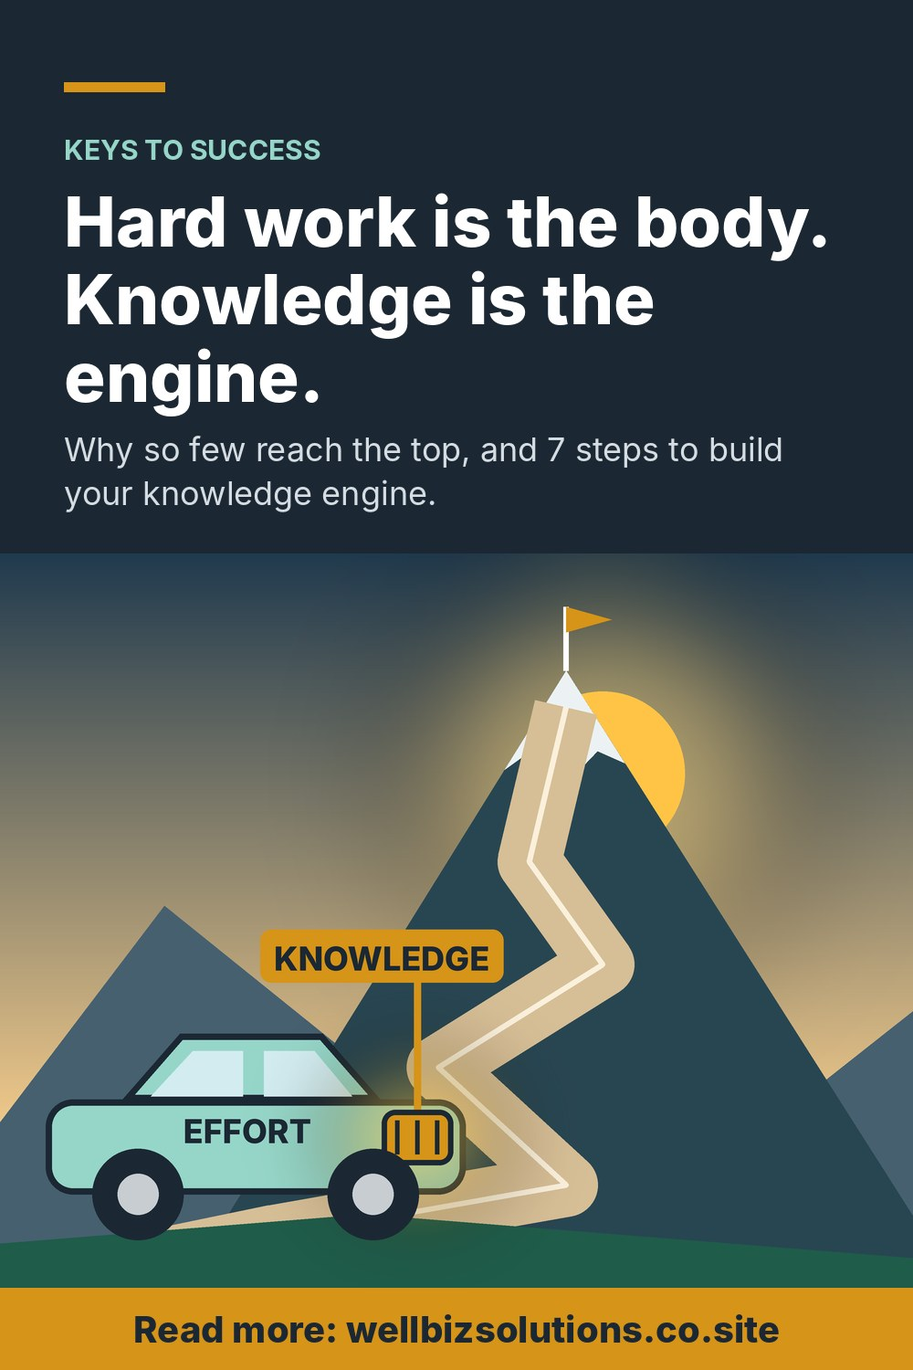
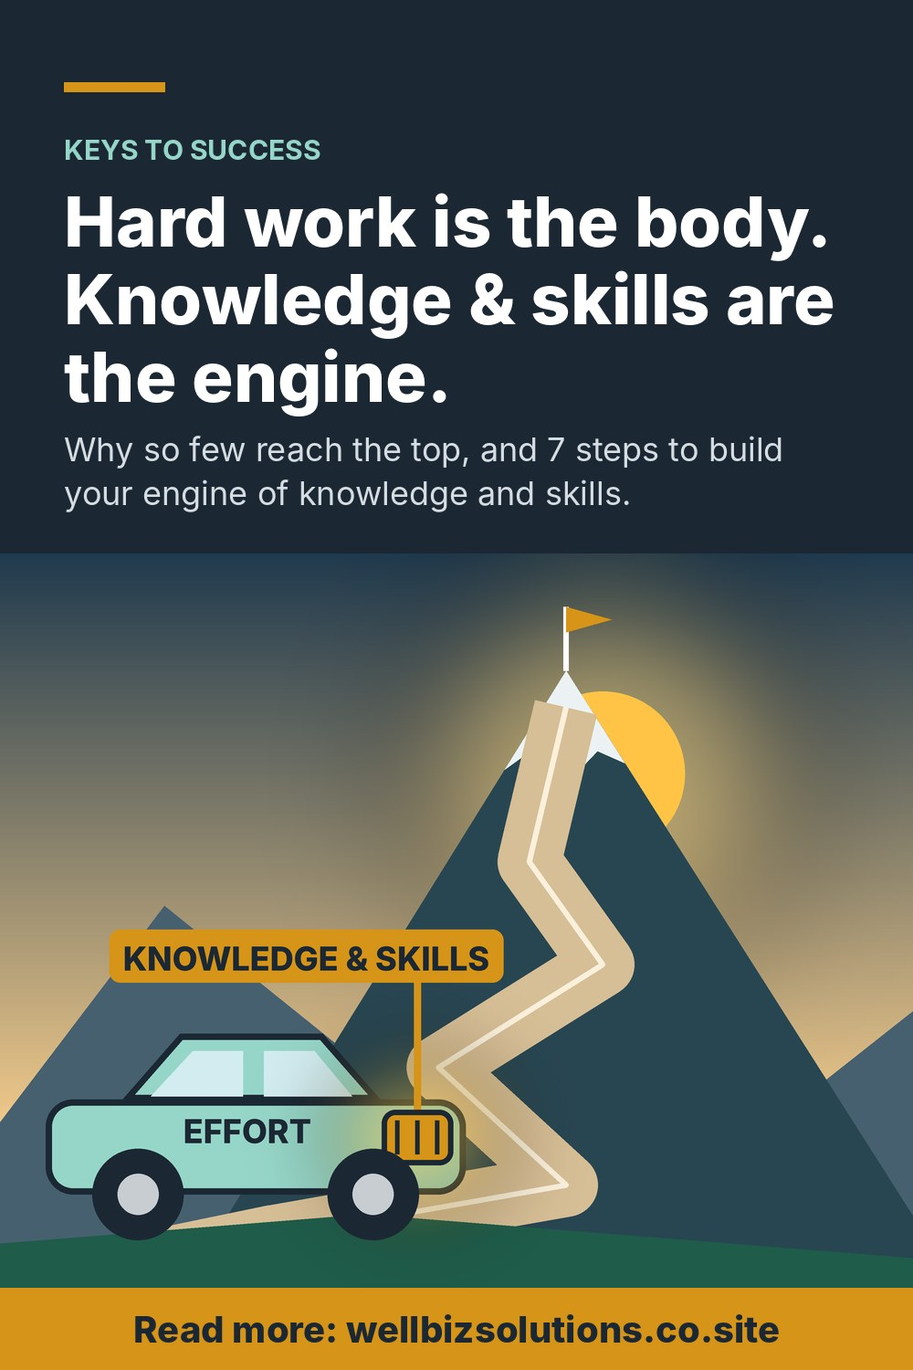
EN article: render maarifa as 'knowledge and skills'
Claude-Session: https://claude.ai/code/session_01Uhe7vGGy8cQE9aatv9GkGs

diff --git a/blog-knowledge-and-effort-keys-to-success.html b/blog-knowledge-and-effort-keys-to-success.html
@@ -3,9 +3,9 @@
 <head>
 <meta charset="UTF-8">
 <meta name="viewport" content="width=device-width, initial-scale=1.0">
-<title>Knowledge Is the Key to Success: Effort Alone Won&#x27;t Do</title>
-<meta name="description" content="Success is not just luck. Hard work is the body of the car, knowledge is the engine. Why so few succeed, and 7 steps to build your knowledge engine.">
-<meta name="keywords" content="knowledge is the key to success, knowledge and hard work, keys to success in life, lifelong learning, how to succeed in life, work smart not just hard, personal growth, success mindset">
+<title>Knowledge and Skills: The Real Engine of Success</title>
+<meta name="description" content="Success is not just luck. Effort is the body of the car; knowledge and skills are the engine. Why so few succeed, and 7 steps to build your engine.">
+<meta name="keywords" content="knowledge and skills, knowledge and skills for success, knowledge is the key to success, knowledge and hard work, keys to success in life, lifelong learning, how to succeed in life, work smart not just hard, personal growth, success mindset">
 <meta name="author" content="Juma Killaghai">
 <meta name="robots" content="index, follow, max-image-preview:large">
 <link rel="icon" href="/assets/images/logo.png">
@@ -18,22 +18,22 @@
 <meta property="og:site_name" content="Wellbiz Solutions">
 <meta property="og:locale" content="en_US">
 <meta property="og:locale:alternate" content="sw_TZ">
-<meta property="og:title" content="Knowledge Is the Key to Success: Effort Alone Won&#x27;t Do">
-<meta property="og:description" content="Many people work hard, few work with knowledge. That is why so few reach the top. Knowledge is the engine of success; effort is the body of the car.">
+<meta property="og:title" content="Knowledge and Skills: The Real Engine of Success">
+<meta property="og:description" content="Many people work hard, few work with knowledge and skills. That is why so few reach the top. Effort is the body of the car; know-how is the engine.">
 <meta property="og:url" content="https://www.wellbizsolutions.co.site/blog-knowledge-and-effort-keys-to-success.html">
 <meta property="og:image" content="https://images.unsplash.com/photo-1612477954469-c6a60de89802?w=1200&amp;h=630&amp;fit=crop&amp;auto=format&amp;q=80">
 <meta property="og:image:width" content="1200">
 <meta property="og:image:height" content="630">
-<meta property="og:image:alt" content="Knowledge is the key to success: a young woman reading a book to grow her knowledge">
+<meta property="og:image:alt" content="Knowledge and skills are the key to success: a young woman reading a book to grow her knowledge">
 <meta property="article:published_time" content="2026-11-06">
 <meta property="article:author" content="Juma Killaghai">
 <meta property="article:section" content="Personal Growth">
 <meta name="twitter:card" content="summary_large_image">
-<meta name="twitter:title" content="Knowledge Is the Key to Success: Effort Alone Won&#x27;t Do">
-<meta name="twitter:description" content="Many people work hard, few work with knowledge. That is why so few reach the top. Knowledge is the engine of success; effort is the body of the car.">
+<meta name="twitter:title" content="Knowledge and Skills: The Real Engine of Success">
+<meta name="twitter:description" content="Many people work hard, few work with knowledge and skills. That is why so few reach the top. Effort is the body of the car; know-how is the engine.">
 <meta name="twitter:image" content="https://images.unsplash.com/photo-1612477954469-c6a60de89802?w=1200&amp;h=630&amp;fit=crop&amp;auto=format&amp;q=80">
 <script type="application/ld+json">
-{"@context": "https://schema.org", "@graph": [{"@type": "BlogPosting", "headline": "Everyone Can Reach the Peak of Success: Knowledge Is the Engine, Effort Is the Body of the Car", "description": "Success is not just luck. Hard work is the body of the car, knowledge is the engine. Why so few succeed, and 7 steps to build your knowledge engine.", "image": {"@type": "ImageObject", "url": "https://images.unsplash.com/photo-1612477954469-c6a60de89802?w=1200&h=630&fit=crop&auto=format&q=80", "width": 1200, "height": 630}, "datePublished": "2026-11-06", "dateModified": "2026-11-06", "inLanguage": "en", "articleSection": "Personal Growth", "keywords": "knowledge is the key to success, knowledge and hard work, keys to success in life, lifelong learning, how to succeed in life, work smart not just hard, personal growth, success mindset", "author": {"@type": "Person", "name": "Juma Killaghai", "url": "https://www.wellbizsolutions.co.site/about.html"}, "publisher": {"@type": "Organization", "name": "Wellbiz Solutions", "logo": {"@type": "ImageObject", "url": "https://www.wellbizsolutions.co.site/assets/images/logo.png"}}, "mainEntityOfPage": "https://www.wellbizsolutions.co.site/blog-knowledge-and-effort-keys-to-success.html", "translationOfWork": {"@id": "https://www.wellbizsolutions.co.site/blog-kila-mtu-anaweza-kufikia-kilele-cha-mafanikio-sw.html"}}, {"@type": "BreadcrumbList", "itemListElement": [{"@type": "ListItem", "position": 1, "name": "Home", "item": "https://www.wellbizsolutions.co.site/"}, {"@type": "ListItem", "position": 2, "name": "Blog", "item": "https://www.wellbizsolutions.co.site/blog.html"}, {"@type": "ListItem", "position": 3, "name": "Knowledge Is the Key to Success: Effort Alone Won't Do", "item": "https://www.wellbizsolutions.co.site/blog-knowledge-and-effort-keys-to-success.html"}]}, {"@type": "FAQPage", "mainEntity": [{"@type": "Question", "name": "Is success a matter of luck?", "acceptedAnswer": {"@type": "Answer", "text": "For a few people, luck plays a part. For the great majority, success comes from principles that work the same way for everyone, and the most important of them is knowledge combined with effort. Hard work alone is common; hard work guided by knowledge is rare, and that is why few people reach the top."}}, {"@type": "Question", "name": "What matters more, knowledge or hard work?", "acceptedAnswer": {"@type": "Answer", "text": "You need both. Effort is the body of the car and knowledge is the engine. A beautiful body with a broken engine goes nowhere, and a weak engine makes the journey slow. Knowledge tells you where to put your effort so that it pays."}}, {"@type": "Question", "name": "Is it true that knowledge doubles every 18 months?", "acceptedAnswer": {"@type": "Answer", "text": "Treat that figure as an illustration, not a measurement. It comes from Buckminster Fuller's \"knowledge doubling curve\", an estimate rather than a scientific count. Studies of scientific publications find output grows about 4% a year, doubling roughly every 17 years. The lesson still holds: the World Economic Forum expects 39% of workers' core skills to change by 2030."}}, {"@type": "Question", "name": "How can I build my knowledge if I can't afford courses?", "acceptedAnswer": {"@type": "Answer", "text": "Start with 30 minutes a day: read books and articles in your field, listen to podcasts or radio programmes, learn from people who are already succeeding, and join free trainings and seminars. Then apply one new idea each week. Knowledge you use is worth far more than knowledge you only collect."}}]}]}
+{"@context": "https://schema.org", "@graph": [{"@type": "BlogPosting", "headline": "Everyone Can Reach the Peak of Success: Knowledge and Skills Are the Engine, Effort Is the Body of the Car", "description": "Success is not just luck. Effort is the body of the car; knowledge and skills are the engine. Why so few succeed, and 7 steps to build your engine.", "image": {"@type": "ImageObject", "url": "https://images.unsplash.com/photo-1612477954469-c6a60de89802?w=1200&h=630&fit=crop&auto=format&q=80", "width": 1200, "height": 630}, "datePublished": "2026-11-06", "dateModified": "2026-11-06", "inLanguage": "en", "articleSection": "Personal Growth", "keywords": "knowledge and skills, knowledge and skills for success, knowledge is the key to success, knowledge and hard work, keys to success in life, lifelong learning, how to succeed in life, work smart not just hard, personal growth, success mindset", "author": {"@type": "Person", "name": "Juma Killaghai", "url": "https://www.wellbizsolutions.co.site/about.html"}, "publisher": {"@type": "Organization", "name": "Wellbiz Solutions", "logo": {"@type": "ImageObject", "url": "https://www.wellbizsolutions.co.site/assets/images/logo.png"}}, "mainEntityOfPage": "https://www.wellbizsolutions.co.site/blog-knowledge-and-effort-keys-to-success.html", "translationOfWork": {"@id": "https://www.wellbizsolutions.co.site/blog-kila-mtu-anaweza-kufikia-kilele-cha-mafanikio-sw.html"}}, {"@type": "BreadcrumbList", "itemListElement": [{"@type": "ListItem", "position": 1, "name": "Home", "item": "https://www.wellbizsolutions.co.site/"}, {"@type": "ListItem", "position": 2, "name": "Blog", "item": "https://www.wellbizsolutions.co.site/blog.html"}, {"@type": "ListItem", "position": 3, "name": "Knowledge and Skills: The Real Engine of Success", "item": "https://www.wellbizsolutions.co.site/blog-knowledge-and-effort-keys-to-success.html"}]}, {"@type": "FAQPage", "mainEntity": [{"@type": "Question", "name": "Is success a matter of luck?", "acceptedAnswer": {"@type": "Answer", "text": "For a few people, luck plays a part. For the great majority, success comes from principles that work the same way for everyone, and the most important of them is knowledge and skills combined with effort. Hard work alone is common; hard work guided by knowledge and skills is rare, and that is why few people reach the top."}}, {"@type": "Question", "name": "What matters more, knowledge and skills or hard work?", "acceptedAnswer": {"@type": "Answer", "text": "You need both. Effort is the body of the car; knowledge and skills are the engine. A beautiful body with a broken engine goes nowhere, and a weak engine makes the journey slow. Knowledge and skills tell you where to put your effort, and how, so that it pays."}}, {"@type": "Question", "name": "Is it true that knowledge doubles every 18 months?", "acceptedAnswer": {"@type": "Answer", "text": "Treat that figure as an illustration, not a measurement. It comes from Buckminster Fuller's \"knowledge doubling curve\", an estimate rather than a scientific count. Studies of scientific publications find output grows about 4% a year, doubling roughly every 17 years. The lesson still holds: the World Economic Forum expects 39% of workers' core skills to change by 2030."}}, {"@type": "Question", "name": "How can I build my knowledge and skills if I can't afford courses?", "acceptedAnswer": {"@type": "Answer", "text": "Start with 30 minutes a day: read books and articles in your field, listen to podcasts or radio programmes, learn from people who are already succeeding, and join free trainings and seminars. Then practise one new idea or skill each week. Knowledge you use is worth far more than knowledge you only collect."}}]}]}
 </script>
   <style>
     .toolkit{background:#fff7ef;border:1px solid #f0d9c4;border-radius:12px;padding:22px 24px;margin:36px 0;}
@@ -57,8 +57,8 @@
     <section class="page-hero on-ink">
       <div class="wrap">
         <div class="eyebrow">Personal Growth</div>
-        <h1 style="font-size:clamp(28px,4vw,44px);">Everyone Can Reach the Peak of Success: Knowledge Is the Engine, Effort Is the Body of the Car</h1>
-        <p class="lede">Success is not a matter of luck for most people. It comes from working with knowledge and effort. Effort without knowledge is a car without an engine.</p>
+        <h1 style="font-size:clamp(28px,4vw,44px);">Everyone Can Reach the Peak of Success: Knowledge and Skills Are the Engine, Effort Is the Body of the Car</h1>
+        <p class="lede">Success is not a matter of luck for most people. It comes from working with knowledge, skills and effort. Effort without knowledge and skills is a car without an engine.</p>
       </div>
     </section>
 
@@ -70,29 +70,29 @@
         </p>
 
         <figure style="margin:0 0 32px;">
-          <img src="https://images.unsplash.com/photo-1612477954469-c6a60de89802?w=1200&h=800&fit=crop&auto=format&q=80" width="1200" height="800" alt="Knowledge is the key to success: a young woman reading a book to grow her knowledge" style="border-radius:12px;width:100%;height:auto;display:block;">
+          <img src="https://images.unsplash.com/photo-1612477954469-c6a60de89802?w=1200&h=800&fit=crop&auto=format&q=80" width="1200" height="800" alt="Knowledge and skills are the key to success: a young woman reading a book to grow her knowledge" style="border-radius:12px;width:100%;height:auto;display:block;">
           <figcaption style="font-size:14px;color:#667;margin-top:8px;text-align:center;">Effort gets you moving; knowledge decides how far you go. (Photo: Alexandra Fuller / Unsplash)</figcaption>
         </figure>
 
-        <p>Some people believe that success in life is a matter of luck. Others believe that Almighty God alone decides who will succeed and who will not. <strong>For most of us, both beliefs are wrong.</strong> It is true that a few people succeed by luck, but real success for the great majority comes from working with <strong>knowledge</strong> and effort. And that is the key point: <strong>knowledge is the key to success</strong>, and effort is what carries it.</p>
-        <p>Many people work very hard. Far fewer work with knowledge. That simple fact explains why those who reach the top are few, even though those who work hard are many.</p>
+        <p>Some people believe that success in life is a matter of luck. Others believe that Almighty God alone decides who will succeed and who will not. <strong>For most of us, both beliefs are wrong.</strong> It is true that a few people succeed by luck, but real success for the great majority comes from working with <strong>knowledge and skills</strong> and effort. And that is the key point: <strong>knowledge and skills are the key to success</strong>, and effort is what carries them. In Kiswahili we call this <em>maarifa</em>: not only what you know, but also what you know how to do.</p>
+        <p>Many people work very hard. Far fewer work with knowledge and skills. That simple fact explains why those who reach the top are few, even though those who work hard are many.</p>
 
         <h2>Luck and Destiny: Only a Few Cases</h2>
         <p>There are a few people to whom Almighty God, in His authority, has chosen to give success, no doubt as a test for them. Even if they said "we do not want this success", it would still come, because the decision about them has already been made by the One no one can overrule. I know some of these people, and you probably know some too. Their great test is that they carry a heavy responsibility to give part of their success back to society.</p>
         <p>In the same way, there are a few people to whom God, in His authority, has chosen not to give, also as a test. Even if the whole world came together to rescue them, it would be in vain. I know people like this too, and perhaps you do as well. Their great test is patience: to remain good, honest citizens while they face hardship of every kind.</p>
-        <p>Apart from these few cases, the lucky and those whom God may have chosen as a lesson for others, <strong>everyone else succeeds or fails according to principles that work the same way for everyone.</strong> And the most fundamental of these principles is KNOWLEDGE.</p>
+        <p>Apart from these few cases, the lucky and those whom God may have chosen as a lesson for others, <strong>everyone else succeeds or fails according to principles that work the same way for everyone.</strong> And the most fundamental of these principles is KNOWLEDGE AND SKILLS.</p>
 
-        <h2>Knowledge Is the Key to Success: the Engine That Drives Your Car</h2>
-        <p>Picture your success as a car made of two parts: <strong>EFFORT and KNOWLEDGE</strong>. The body of the car is effort; the engine is knowledge.</p>
+        <h2>Knowledge and Skills Are the Key to Success: the Engine That Drives Your Car</h2>
+        <p>Picture your success as a car made of two parts: <strong>EFFORT and KNOWLEDGE &amp; SKILLS</strong>. The body of the car is effort; the engine is your knowledge and skills.</p>
         <ul>
           <li>No matter how beautiful the body, <strong>if the engine is broken, the car goes nowhere.</strong></li>
           <li>No matter how beautiful the body, <strong>if the engine is weak, the car crawls along</strong>, and it may never reach your destination.</li>
         </ul>
         <p>So ask yourself honestly:</p>
         <ul>
-          <li>How much knowledge do you have to <strong>recognise opportunities</strong> when they appear?</li>
-          <li>How much knowledge do you have to <strong>turn those opportunities into a bridge</strong> to your success?</li>
-          <li>Once you succeed, how much knowledge do you have to <strong>protect that success</strong> so it does not slip away?</li>
+          <li>How much knowledge and skill do you have to <strong>recognise opportunities</strong> when they appear?</li>
+          <li>How much knowledge and skill do you have to <strong>turn those opportunities into a bridge</strong> to your success?</li>
+          <li>Once you succeed, how much knowledge and skill do you have to <strong>protect that success</strong> so it does not slip away?</li>
         </ul>
 
         <figure style="margin:28px 0;">
@@ -100,14 +100,14 @@
           <figcaption style="font-size:14px;color:#667;margin-top:8px;text-align:center;">However beautiful the body, a car with a weak engine will not get far. (Photo: Kay Asante / Unsplash)</figcaption>
         </figure>
 
-        <h2>The World Is Changing Fast: Is Your Knowledge Keeping Up?</h2>
+        <h2>The World Is Changing Fast: Are Your Knowledge and Skills Keeping Up?</h2>
         <p>You may have heard that the amount of new knowledge in the world doubles roughly every 18 months. That figure is best treated as an illustration rather than a measurement: it comes from the inventor Buckminster Fuller's "knowledge doubling curve", an estimate, not a scientific count. Careful studies of scientific publications find that global output grows by about 4% a year, which means it doubles roughly every 17 years.</p>
         <div class="stat"><p style="margin:0;"><strong>What the evidence says:</strong> the World Economic Forum's <em>Future of Jobs Report 2025</em> found that employers expect <strong>39% of workers' core skills to change by 2030</strong>. Whatever the exact speed, the skills that earn money today will not be enough tomorrow.</p></div>
-        <p>The message is the same: we live in a world that changes at an astonishing pace. Those who want to succeed, or to keep the success they already have, must be ready to change at the same pace as the world. In short, your knowledge has to keep growing all the time.</p>
+        <p>The message is the same: we live in a world that changes at an astonishing pace. Those who want to succeed, or to keep the success they already have, must be ready to change at the same pace as the world. In short, your knowledge and skills have to keep growing all the time.</p>
 
-        <h2>Build Your Knowledge Engine: 7 Practical Steps</h2>
+        <h2>Build Your Engine of Knowledge and Skills: 7 Practical Steps</h2>
         <ol>
-          <li><strong>Know where you are going.</strong> Write down your goal for the next 12 months and list the three things you need to know to reach it.</li>
+          <li><strong>Know where you are going.</strong> Write down your goal for the next 12 months and list the three things you need to know, or be able to do, to reach it.</li>
           <li><strong>Give learning 30 minutes a day.</strong> Half an hour a day is more than 180 hours a year, the equivalent of a short course.</li>
           <li><strong>Read one book a month.</strong> Choose books in your field: sales, money management, your trade. If reading is hard, listen to audio programmes or podcasts.</li>
           <li><strong>Learn from people.</strong> Find a mentor, join a group of people who are ahead of you, and ask good questions. One conversation can save you years of mistakes.</li>
@@ -128,10 +128,10 @@
           </tbody>
         </table></div>
 
-        <div class="note"><p style="margin:0;"><strong>⚠ Knowledge is not only certificates.</strong> School is valuable, but much of the knowledge that builds success is practical: how money works, how to sell, how to serve customers, how to plan. Anyone can learn these, whatever their level of formal education.</p></div>
+        <div class="note"><p style="margin:0;"><strong>⚠ Knowledge and skills are not only certificates.</strong> School is valuable, but much of the knowledge that builds success is practical: how money works, how to sell, how to serve customers, how to plan. Anyone can learn these, whatever their level of formal education.</p></div>
 
         <div class="toolkit">
-          <h2>📘 Grow Your Knowledge Today: Practical Wellbiz E-books</h2>
+          <h2>📘 Grow Your Knowledge and Skills Today: Practical Wellbiz E-books</h2>
           <p>Our guides are written for people who want practical knowledge they can use straight away, with worked examples and ready-to-use tools:</p>
           <ul>
             <li><a href="https://payhip.com/b/ed3NI" target="_blank" rel="noopener">Write a Business Plan That Banks and Investors Take Seriously</a> (guide + 9 tools)</li>
@@ -145,17 +145,17 @@
         <section class="faq">
           <h2>Frequently Asked Questions</h2>
           <h3>Is success a matter of luck?</h3>
-          <p>For a few people, luck plays a part. For the great majority, success comes from principles that work the same way for everyone, and the most important of them is knowledge combined with effort. Hard work alone is common; hard work guided by knowledge is rare, and that is why few people reach the top.</p>
-          <h3>What matters more, knowledge or hard work?</h3>
-          <p>You need both. Effort is the body of the car and knowledge is the engine. A beautiful body with a broken engine goes nowhere, and a weak engine makes the journey slow. Knowledge tells you where to put your effort so that it pays.</p>
+          <p>For a few people, luck plays a part. For the great majority, success comes from principles that work the same way for everyone, and the most important of them is knowledge and skills combined with effort. Hard work alone is common; hard work guided by knowledge and skills is rare, and that is why few people reach the top.</p>
+          <h3>What matters more, knowledge and skills or hard work?</h3>
+          <p>You need both. Effort is the body of the car; knowledge and skills are the engine. A beautiful body with a broken engine goes nowhere, and a weak engine makes the journey slow. Knowledge and skills tell you where to put your effort, and how, so that it pays.</p>
           <h3>Is it true that knowledge doubles every 18 months?</h3>
           <p>Treat that figure as an illustration, not a measurement. It comes from Buckminster Fuller&#x27;s &quot;knowledge doubling curve&quot;, an estimate rather than a scientific count. Studies of scientific publications find output grows about 4% a year, doubling roughly every 17 years. The lesson still holds: the World Economic Forum expects 39% of workers&#x27; core skills to change by 2030.</p>
-          <h3>How can I build my knowledge if I can&#x27;t afford courses?</h3>
-          <p>Start with 30 minutes a day: read books and articles in your field, listen to podcasts or radio programmes, learn from people who are already succeeding, and join free trainings and seminars. Then apply one new idea each week. Knowledge you use is worth far more than knowledge you only collect.</p>
+          <h3>How can I build my knowledge and skills if I can&#x27;t afford courses?</h3>
+          <p>Start with 30 minutes a day: read books and articles in your field, listen to podcasts or radio programmes, learn from people who are already succeeding, and join free trainings and seminars. Then practise one new idea or skill each week. Knowledge you use is worth far more than knowledge you only collect.</p>
         </section>
 
         <h2>Final Word</h2>
-        <p>Everyone has the ability to reach the peak of success in life. Luck and destiny explain only a few cases; for everyone else, the rules are the same. Work hard, yes, but above all, keep building the engine. <strong>SUCCESS = KNOWLEDGE + EFFORT. Knowledge! Knowledge! Knowledge!</strong></p>
+        <p>Everyone has the ability to reach the peak of success in life. Luck and destiny explain only a few cases; for everyone else, the rules are the same. Work hard, yes, but above all, keep building the engine. <strong>SUCCESS = KNOWLEDGE &amp; SKILLS + EFFORT. Knowledge and skills, again and again!</strong></p>
         <p><strong>Need help?</strong> Wellbiz Solutions offers practical trainings, business plans and business advice to help you move to a more successful life. Call or WhatsApp: <a href="tel:+255754281131">+255 754 281 131</a> / <a href="https://wa.me/255655281131" target="_blank" rel="noopener">+255 655 281 131</a></p>
         <p><em>Know someone who works very hard but never seems to move forward? Share this article with them.</em></p>
 

diff --git a/blog.html b/blog.html
@@ -25,8 +25,8 @@
       <a class="blog-card" href="/blog-knowledge-and-effort-keys-to-success.html">
         <span class="cat">Personal Growth</span>
         <span class="badge">🇹🇿 Soma kwa Kiswahili</span>
-        <h3>Everyone Can Reach the Peak of Success: Knowledge Is the Engine, Effort Is the Body of the Car</h3>
-        <p>Many people work hard, few work with knowledge. That is why so few reach the top. Luck explains only a few cases; here are 7 steps to build your knowledge engine.</p>
+        <h3>Everyone Can Reach the Peak of Success: Knowledge and Skills Are the Engine, Effort Is the Body of the Car</h3>
+        <p>Many people work hard, few work with knowledge and skills. That is why so few reach the top. Luck explains only a few cases; here are 7 steps to build your engine.</p>
       </a>
       <a class="blog-card" href="/blog-kila-mtu-anaweza-kufikia-kilele-cha-mafanikio-sw.html">
         <span class="cat">Maendeleo Binafsi</span>
